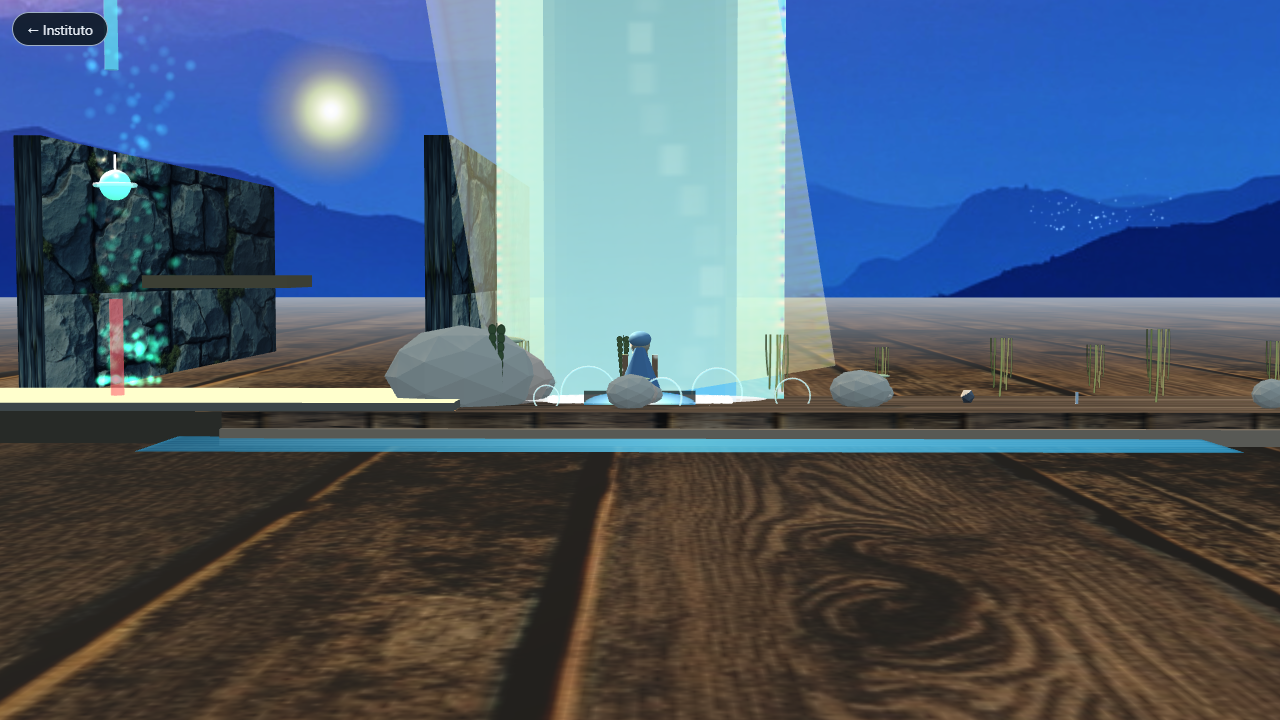
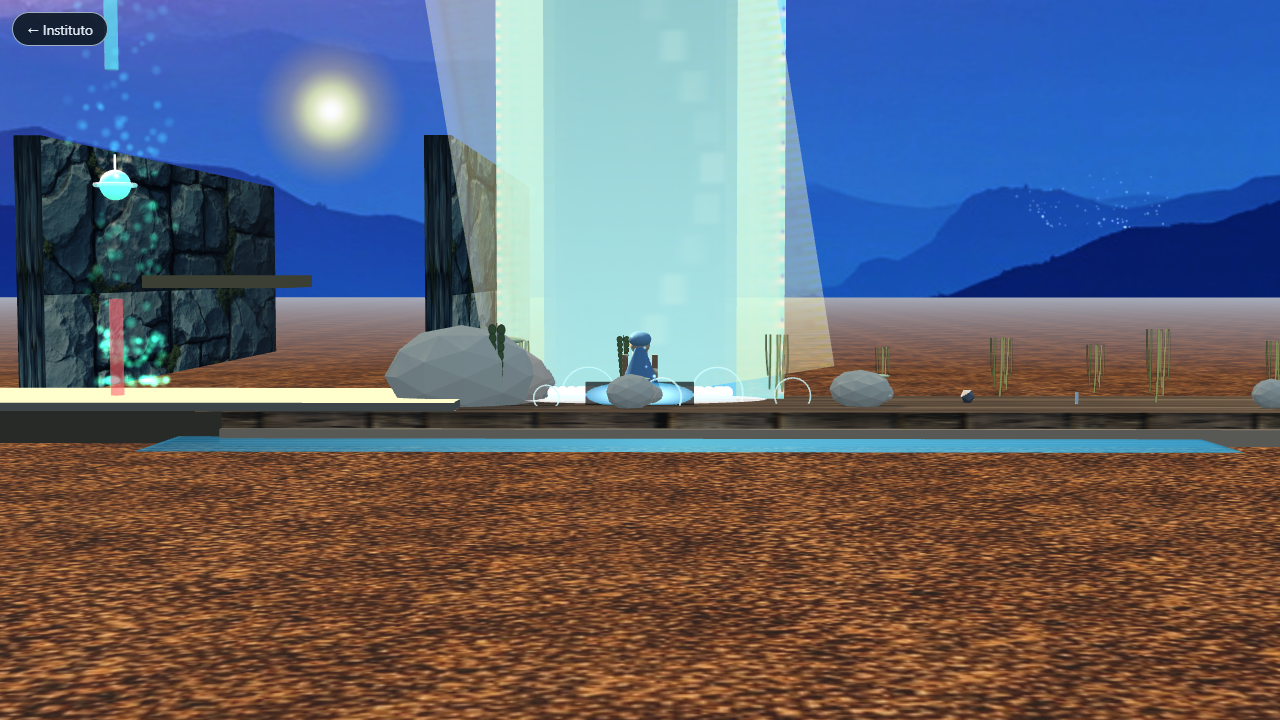
M0.6.2 Physica: ground-dirt-tile textura (mmx-cli) — suelo de tierra/grava
Reemplaza el plank-top oscurecido del ground plane 400x400 con
ground-dirt-tile_001.jpg (mmx-cli, tileable, patrón uniforme de
tierra/grava marrón). uScale=8 vScale=8. Resultado: el plano
extendido se lee como un suelo desértico coherente con el alpenglow
del backdrop, en vez del suelo de madera clara que rompía la paleta.

Aplica tambi\u00e9n cliff-wall-v2 al gorgeProfundo (M0.6.1) que
quedaba como una caja oscura liza sin identidad.

11 screenshots confirman Escenas 2-8 con backdrop alpenglow + ground
tierra en todas las vistas.

diff --git a/src/experiences/physica/scenes/cascadeScene.ts b/src/experiences/physica/scenes/cascadeScene.ts
@@ -349,25 +349,24 @@ export function buildCascadeScene(ctx: CascadeSceneContext): CascadeSceneEntitie
   /* Ground plane horizontal que extiende la cornisa lateralmente y
      hacia atrás. Cubre el "navy void" que aparecía entre la cornisa y el
      backdrop en vistas lejanas (dolly, metrópolis). Tamaño 400x400 con
-     uScale=6 vScale=6 — la textura plank-top se repite suficiente para
-     que el patrón no sea obvio. */
+     uScale=8 vScale=8 — la textura de tierra/grava (ground-dirt-tile,
+     mmx-cli) es tileable y se repite sin costuras obvias. */
   const groundTex2 = new BABYLON.Texture(
-    '/assets/physica/textures/plank-top-clean_001.jpg',
+    '/assets/physica/textures/ground-dirt-tile_001.jpg',
     scene, false, true,
     BABYLON.Texture.TRILINEAR_SAMPLINGMODE,
   );
   groundTex2.wrapU = BABYLON.Texture.WRAP_ADDRESSMODE;
   groundTex2.wrapV = BABYLON.Texture.WRAP_ADDRESSMODE;
-  groundTex2.uScale = 6;
-  groundTex2.vScale = 6;
+  groundTex2.uScale = 8;
+  groundTex2.vScale = 8;
   textures.push(groundTex2);
-  const groundExtMat = makePbr('ground-extendido', '#7a6a48', { roughness: 0.95 });
+  const groundExtMat = makePbr('ground-extendido', '#ffffff', { roughness: 0.95 });
   groundExtMat.albedoTexture = groundTex2;
   groundExtMat.environmentIntensity = 0.15;
-  groundExtMat.albedoColor = new BABYLON.Color3(0.55, 0.45, 0.32);
-  // oscurece la textura plank-top para que el plano extendido no parezca
-  // un suelo de madera clara (rompe el alpenglow) sino una superficie de
-  // roca/grava coherente con la cornisa.
+  // leve tinte cálido para que case con el alpenglow violeta-rosa del
+  // backdrop, sin teñir tanto como para perder el detalle de la grava.
+  groundExtMat.albedoColor = new BABYLON.Color3(0.78, 0.68, 0.55);
   const groundExt = mesh(BABYLON.MeshBuilder.CreateGround('ground-extendido', { width: 400, height: 400 }, scene));
   groundExt.material = groundExtMat;
   groundExt.position.set(0, -0.71, 0);
